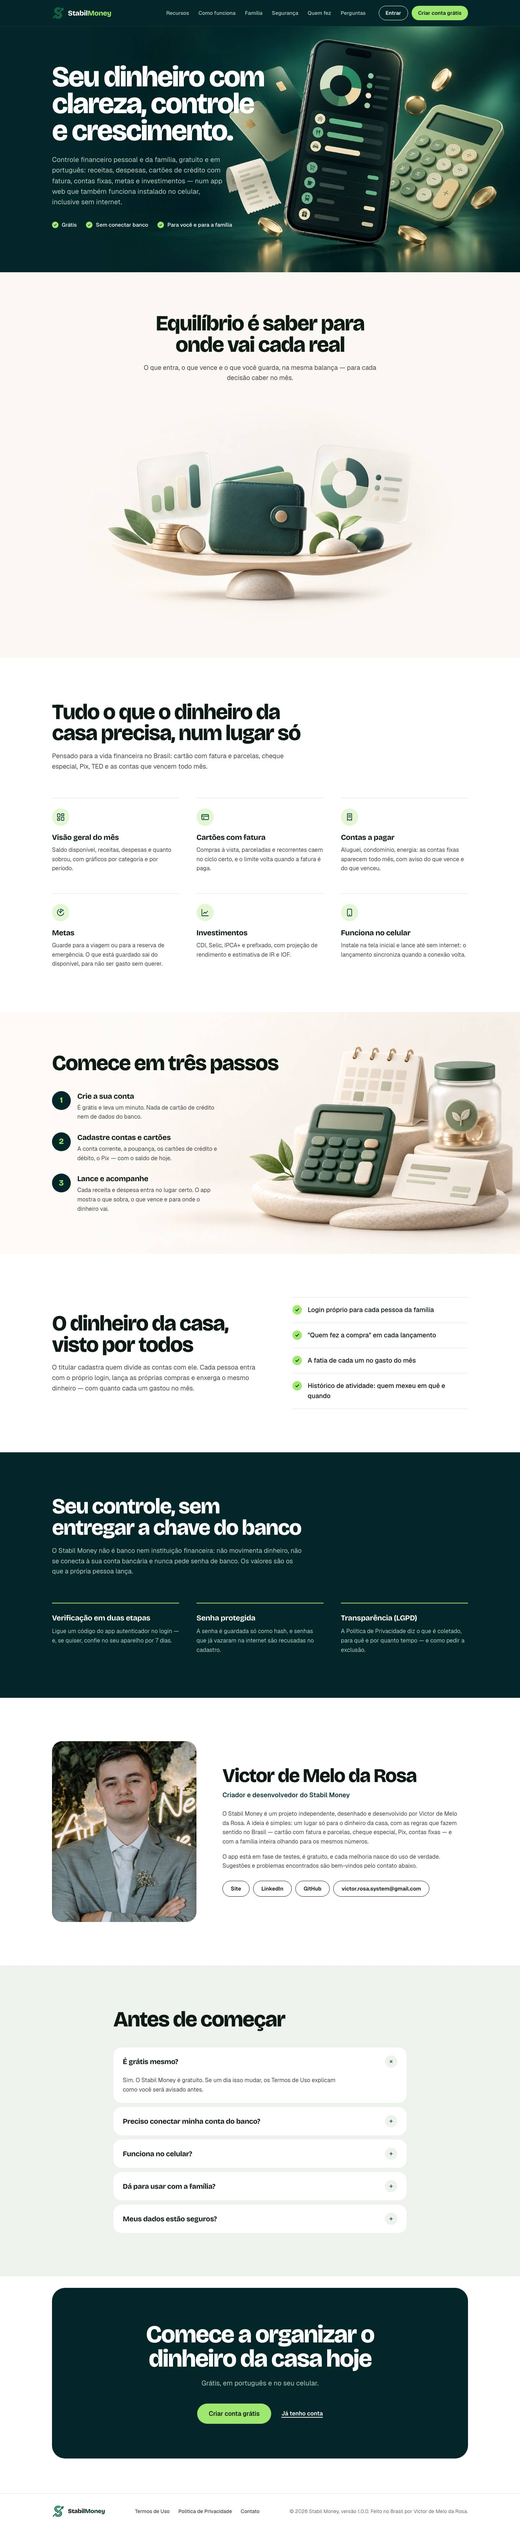
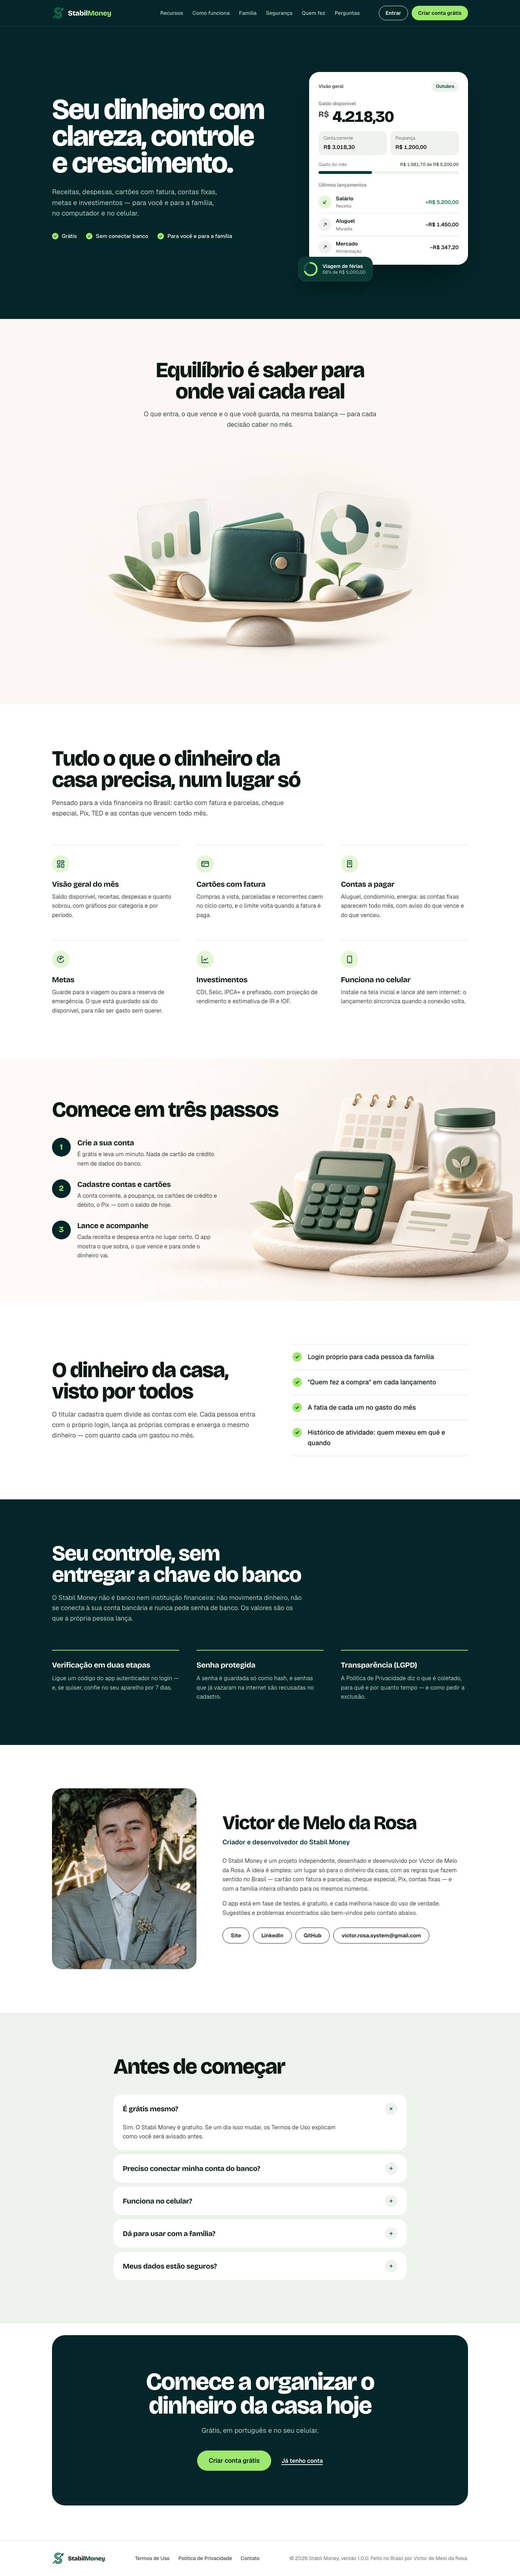
docs: prévia viva do topo e cache da foto no guia de design e no CLAUDE.md (2.251 PHP, 387 JS)

Changed region(s): [[0.0, 0.0, 1.0, 0.8726], [0.2812, 0.9038, 0.7188, 0.9661]]

diff --git a/design_stabilmoney/paleta.html b/design_stabilmoney/paleta.html
@@ -103,7 +103,6 @@
   <div class="wrap">
     <h2>Imagens</h2>
     <div class="imgs">
-      <figure><img src="imagens/web/inicio-app-960.jpg" alt=""><figcaption>Abertura: o app no celular, fundo mata</figcaption></figure>
       <figure><img src="imagens/web/inicio-contas-960.jpg" alt=""><figcaption>"Como funciona": as contas, fundo creme</figcaption></figure>
       <figure><img src="imagens/web/equilibrio-900.jpg" alt=""><figcaption>Faixa "Equilíbrio"</figcaption></figure>
     </div>

diff --git a/CLAUDE.md b/CLAUDE.md
@@ -47,7 +47,7 @@ reais → CRUD de transações/contas(=métodos de pagamento)/categorias.
 | Núcleo (CRUD + dashboard + design system) | ✅ Pronto e testado |
 | Login multiusuário (Breeze customizado) | ✅ Pronto (isolamento testado) |
 | Design v2 (shell, popover, patrimônio, auth com vídeo) | ✅ Pronto |
-| Suíte de testes | ✅ **2.249 testes PHP** (1 deles só roda no MySQL) (~52 mil asserções — o número varia a cada rodada, porque o teste de invariantes por sequência sorteia as operações) — em sqlite **e em MySQL 8** (job `mysql` do CI) — + **378 testes JS** (Vitest) + **230 checagens dos scripts** (backup 83, deploy 103, nginx 20, permissões do deploy 9, IPs da Cloudflare 15) verdes |
+| Suíte de testes | ✅ **2.251 testes PHP** (1 deles só roda no MySQL) (~52 mil asserções — o número varia a cada rodada, porque o teste de invariantes por sequência sorteia as operações) — em sqlite **e em MySQL 8** (job `mysql` do CI) — + **387 testes JS** (Vitest) + **230 checagens dos scripts** (backup 83, deploy 103, nginx 20, permissões do deploy 9, IPs da Cloudflare 15) verdes |
 | Features financeiras v2 (metas, investimentos, faturas/despesas, cartão c/ ciclo/limite) | ✅ **Implementadas** (jun/2026) |
 | **Modelo de dinheiro v3** (cheque especial, saldo × investido, escolha de fonte, contas fixas) | ✅ **Implementado** (27/07/2026) |
 | **2FA (verificação em duas etapas por app autenticador)** | ✅ **Implementado** (05/08/2026) — **opcional**, ver seção própria |
@@ -241,7 +241,7 @@ tests/scripts/              # backup-restore.test.sh: roda os scripts de backup/
                             # `scripts` do CI. `bash tests/scripts/backup-restore.test.sh`. Desde 23/09
                             # também deploy.test.sh, nginx.test.sh e atualizar-ips-cloudflare.test.sh
                             # (ver "🚀 Publicação")
-tests/Feature/              # 2.249 testes (PHP): auth, dashboard, CRUD, validação, isolamento multiusuário,
+tests/Feature/              # 2.251 testes (PHP): auth, dashboard, CRUD, validação, isolamento multiusuário,
                             # ModeloDeDinheiroTest (cheque especial/fonte/limite), FixedBillTest e DoisFatoresTest
 ```
 
@@ -407,8 +407,8 @@ contrato do `storeAvatar` (não persiste, não apaga): o arquivo sai pelo hook `
 commit. Arquivo novo enviado junto vence. Antes a foto só podia ser trocada por outra.
 **A URL da foto é versionada** (22/09/2026 — `FotoTrocadaApareceNaHoraTest`): `avatarUrl()` leva
 `?v=` (hash curto do `avatar_path`, que muda a cada upload porque o `storeAvatar` sorteia o nome —
-não troque isso por nome fixo). Com a versão atual, `Cache-Control` de 1 hora; sem versão ou com
-versão velha, `no-cache`. Antes a URL era sempre a mesma e a foto trocada aparecia velha por até
+não troque isso por nome fixo). Com a versão atual, `no-cache` + `ETag` (conferida a cada uso, 304
+barato — out/2026; antes 1 hora de `max-age`); sem versão ou com versão velha, `no-cache` sem ETag. Antes a URL era sempre a mesma e a foto trocada aparecia velha por até
 1 hora no perfil, na sidebar, no popover e nos cards de dependentes.
 
 **Cadastro de categoria e de método de pagamento abre em MODAL** (06/08/2026), na própria tela,
@@ -1612,11 +1612,15 @@ recursos, como funciona, conta-família, segurança, **quem fez** (autor, site, 
   inicial não tem mais vídeo: o selo segue no login e na entrada do painel.)
 - **Reformulação de out/2026** (pedido do Victor, com a Wise como base — guia em `design_stabilmoney/`):
   fontes **Bricolage Grotesque + Geist** só nesta página (o app segue Sora + Plus Jakarta), tokens no
-  escopo `.inicio` (`--mata`, `--lima`…), topo escuro, abertura com `inicio-app-1672.jpg`/`-960.jpg` ao
-  fundo (o fundo da imagem É o `--mata`; recua à direita em telas médias e desce para depois do texto
-  ≤ 980px), "Como funciona" com `inicio-contas-*.jpg`, recursos em linhas (não cards), Segurança em
+  escopo `.inicio` (`--mata`, `--lima`…), topo escuro com o menu no CENTRO da página (grade
+  `1fr auto 1fr`; ≤ 1140px o menu sai), abertura com uma **prévia VIVA do app** no lugar de
+  ilustração (a do celular saiu por "cara de IA"): `.in-vitrine` desenhada pelo servidor (vale sem
+  JS) e animada por `sm/vitrine.js` — a cada 3,4 s entra um lançamento de exemplo e saldo/gasto do mês
+  contam até o valor novo; o `ROTEIRO` soma ZERO (o saldo volta ao começo a cada volta — o
+  `tests/js/vitrine.test.js` cobra), só anda com a aba visível e a prévia na tela, e com
+  `prefers-reduced-motion` fica parada. "Como funciona" com `inicio-contas-*.jpg`, recursos em linhas (não cards), Segurança em
   faixa escura, perguntas em `details` com "+", chamada final em bloco escuro com o botão lima e o link
-  "Já tenho conta". Único movimento automático: o texto da abertura sobe ao carregar. Imagens da página:
+  "Já tenho conta". Fora da abertura, nada se mexe sozinho. Imagens da página:
   versão grande e de celular, < 260 KB cada (o teste cobra).
 
 ## 🔎 SEO (23/09/2026) — `SeoDasPaginasPublicasTest`
@@ -1836,7 +1840,10 @@ dispositivos e a prova do aceite — para IP em repouso o certo é cast `encrypt
   `Clear-Site-Data: "cache"` para apagá-las — o Chrome faz essa limpeza devagar com o cache cheio, e a
   tela de login baixava tudo de novo: o "Sair" demorava (medido na prévia com cache em disco: 237 ms em
   média e até 383 ms; com a troca, ~73 ms). O `no-store` só substitui o padrão `no-cache, private` do
-  framework: resposta que escolhe o próprio cache (a foto versionada) fica. O texto abaixo é de quando
+  framework: resposta que escolhe o próprio cache (a foto versionada) fica — e a foto sai
+  `private, no-cache` + `ETag` (= a versão; 304 sem a imagem), NUNCA `max-age`: sem o
+  `Clear-Site-Data`, o navegador usaria a foto guardada sem perguntar por até 1 hora depois do
+  "Sair" (revisão de segurança do push, out/2026 — `FotoTrocadaApareceNaHoraTest`). O texto abaixo é de quando
   o header existia — ⚠ ele nunca limpou o Cache Storage do SW (premissa antiga, derrubada pelo P-2
   da auditoria de 06/09). Quem apaga o `/transactions/create` guardado offline (HTML autenticado com
   contas/categorias/família) é o **próprio SW** desde 16/09/2026 (`HTML_AUTENTICADO` em
@@ -2595,7 +2602,7 @@ com `single`. O `/up` responde 503 se a pasta do log não aceitar escrita.
 
 ### Comandos úteis
 ```powershell
-docker compose exec app php artisan test                       # suíte PHP completa (2.249 testes)
+docker compose exec app php artisan test                       # suíte PHP completa (2.251 testes)
 docker compose exec app php artisan migrate:fresh --seed       # recria o banco do zero
 docker compose exec app php artisan db:seed --class=DadosDeDemonstracaoSeeder  # telas cheias (ver abaixo)
 docker compose exec app php artisan tinker                     # console interativo

diff --git a/design_stabilmoney/README.md b/design_stabilmoney/README.md
@@ -20,9 +20,13 @@ Sans). Migrar o app para esta identidade é um passo separado, que precisa de um
 
 **Verde-petróleo profundo com um único destaque lima.** O ponto de partida é a referência da Wise
 (`referencias/wise-style-reference.md`): uma cor escura que ocupa as superfícies de peso, um
-destaque elétrico usado com parcimônia, títulos enormes e blocados, e botões em pílula. O verde
-do Stabil Money é o fundo da ilustração do app (`imagens/web/inicio-app-*.jpg`). Por isso a
-imagem se funde com a página, sem moldura.
+destaque elétrico usado com parcimônia, títulos enormes e blocados, e botões em pílula.
+
+**A abertura mostra o app de verdade, não uma ilustração.** Ao lado do título fica uma prévia
+viva da Visão geral, desenhada em HTML (`.in-vitrine`, animada por `resources/js/sm/vitrine.js`).
+A cada poucos segundos entra um lançamento novo, e o saldo e o gasto do mês acompanham. Uma
+ilustração 3D de um celular chegou a ocupar o topo e saiu por ter "cara de IA" (out/2026, pedido
+do Victor). Ilustração 3D só nas faixas claras do meio da página.
 
 A página alterna três tipos de faixa, e é esse o ritmo da página. Nada de enfeite para criar ritmo.
 
@@ -89,12 +93,15 @@ O título é o elemento de impacto da página. É blocado, apertado e grande. Li
   num círculo mata, em lima.
 - **Perguntas**: `details` brancos com raio de 22px sobre a névoa; um "+" que gira para "×" ao abrir.
 - **Foto do autor**: retangular 4:5 e raio de 28px. Nada de foto redonda.
+- **Prévia do app (abertura)**: o painel é BRANCO, como o app, com raio de 28px e uma sombra só.
+  Os dois avisos encostados (vencimento e meta) são verde-abeto, retos, nunca inclinados. Os
+  números são de exemplo e usam o formato do app (`−R$ 182,40`, sinal antes do símbolo).
 
 ## Imagens
 
 | Arquivo | Onde | Observação |
 |---|---|---|
-| `imagens/originais/app-no-celular-escuro.png` → `public/assets/inicio-app-1672.jpg` / `-960.jpg` | Abertura (ao fundo, à direita) | O fundo da imagem é o próprio `--mata`. No celular, a imagem desce para depois do texto. |
+| `imagens/originais/app-no-celular-escuro.png` | **Fora de uso** | Ficou no topo por um dia e saiu ("tinha cara de IA"). Guardada só como referência do que não fazer. |
 | `imagens/originais/contas-claro.png` → `public/assets/inicio-contas-1672.jpg` / `-960.jpg` | "Como funciona" (à direita dos passos) | Fundo `#FDFAF6`. |
 | `imagens/originais/equilibrio-carteira.png` → `public/assets/equilibrio-1600.jpg` / `-900.jpg` | Faixa "Equilíbrio" | Bordas esfumadas por máscara radial, para sumirem no creme. |
 | `imagens/originais/foto-victor.png` → `public/assets/victor-de-melo.jpg` | "Quem fez" | 583×600. |
@@ -121,15 +128,27 @@ Repita com `-Z 960` para a versão de celular.
 - Conteúdo com até 1200px de largura e 24px de margem lateral (mais a área segura do aparelho).
 - O conteúdo fica alinhado à esquerda. Só a faixa Equilíbrio e a chamada final são centralizadas.
 - Seções com 120px de respiro vertical (80px no celular).
-- Abertura e "Como funciona": a imagem fica ao fundo, à direita, e o texto à esquerda. Abaixo de
-  980px, a imagem desce para depois do texto.
+- O menu do topo fica no CENTRO da página: grade de três colunas, as das pontas do mesmo tamanho.
+  Abaixo de 1140px o menu sai e ficam a marca e as ações.
+- Abertura: o título à esquerda e a prévia do app à direita (até 470px). Abaixo de 980px, a
+  prévia desce para depois do texto; abaixo de 440px o aviso do vencimento sai e a meta fica
+  embaixo do painel.
+- "Como funciona": a ilustração fica ao fundo, à direita, e os passos à esquerda. Abaixo de 980px
+  ela desce para depois dos passos.
 - Responsivo de 2000px até 300px, sem rolagem lateral.
 
 ## Movimento
 
-Um único movimento automático: o texto da abertura sobe uma vez ao carregar. Fora ele, só
-movimento que responde a uma ação (o "+" das perguntas gira). O `prefers-reduced-motion` desliga
-os dois.
+O movimento fica todo na abertura, que é o ponto de destaque da página:
+
+- Ao carregar, uma vez: o texto e o painel sobem, o saldo conta a partir de zero e o anel da meta enche.
+- A cada 3,4 segundos, um lançamento novo entra no topo da lista e o mais antigo sai. O saldo, a
+  conta corrente e o gasto do mês contam até o valor novo.
+- O roteiro dos lançamentos soma zero, então depois de uma volta tudo está como no começo.
+- A animação só anda com a aba visível e a prévia na tela.
+
+Fora da abertura, só há movimento que responde a uma ação (o "+" das perguntas gira). Com
+`prefers-reduced-motion` nada se mexe e fica o estado que o servidor desenhou. Sem JS, também.
 
 ## Não fazer
 
